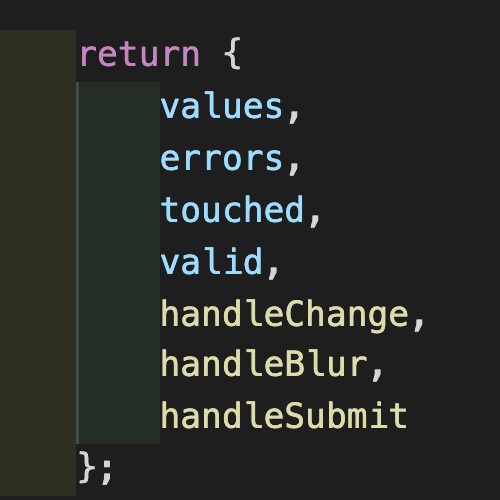
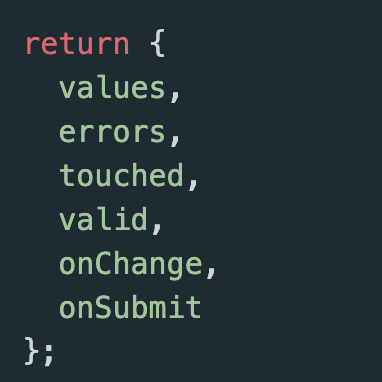
add post

Changed region(s): [[0.0576, 0.0576, 0.8639, 0.9791], [0.7487, 0.7199, 0.7775, 0.7775]]

diff --git a/_posts/useForm.md b/_posts/useForm.md
@@ -1,0 +1,38 @@
+---
+title: "useForm // custom React hook"
+excerpt: ""
+coverImage: "/assets/blog/use-form/use-form-bones.png"
+date: "2021-08-08T05:35:07.322Z"
+author:
+  name: Michelle Lim
+  picture: "/assets/blog/authors/michelle.png"
+ogImage:
+  url: "/assets/blog/use-form/use-form-returns.png"
+---
+
+## A simple hook for managing form state in a React component
+
+### Example component:
+
+<iframe height="400" style="width: 100%;" scrolling="no" title="useForm custom hook" src="https://codepen.io/mslim/embed/eYWQPgq?default-tab=result&theme-id=light" frameborder="no" loading="lazy" allowtransparency="true" allowfullscreen="true">
+  See the Pen <a href="https://codepen.io/mslim/pen/eYWQPgq">
+  useForm custom hook</a> by Michelle Lim (<a href="https://codepen.io/mslim">@mslim</a>)
+  on <a href="https://codepen.io">CodePen</a>.
+</iframe>
+
+### Usage:
+
+<iframe height="744" style="width: 100%;" scrolling="no" title="useForm custom hook - component only" src="https://codepen.io/mslim/embed/gOWQBLo?height=744&theme-id=39676&default-tab=js" frameborder="no" loading="lazy" allowtransparency="true" allowfullscreen="true">
+  See the Pen <a href="https://codepen.io/mslim/pen/gOWQBLo">
+  useForm custom hook - component only</a> by Michelle Lim (<a href="https://codepen.io/mslim">@mslim</a>)
+  on <a href="https://codepen.io">CodePen</a>.
+</iframe>
+
+### / / /
+## Hook:
+
+<iframe height="744" style="width: 100%;" scrolling="no" title="useForm custom hook - hook only" src="https://codepen.io/mslim/embed/QWvJVwp?height=744&theme-id=39676&default-tab=js" frameborder="no" loading="lazy" allowtransparency="true" allowfullscreen="true">
+  See the Pen <a href="https://codepen.io/mslim/pen/QWvJVwp">
+  useForm custom hook - hook only</a> by Michelle Lim (<a href="https://codepen.io/mslim">@mslim</a>)
+  on <a href="https://codepen.io">CodePen</a>.
+</iframe>
